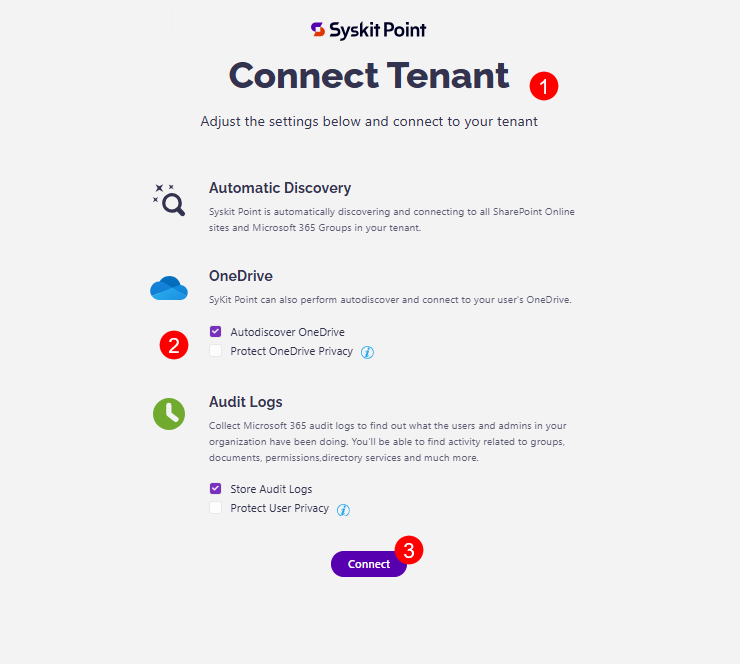
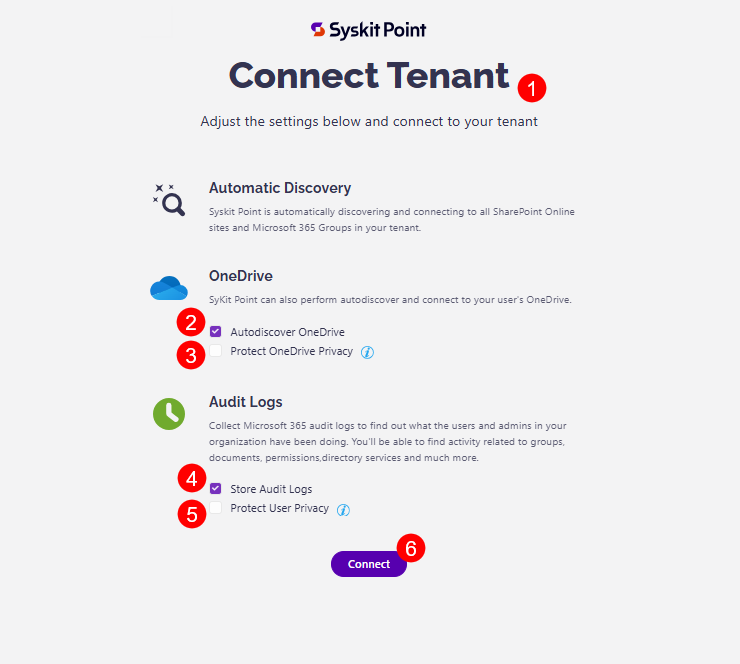
updated

diff --git a/configuration/manage-connection.md b/configuration/manage-connection.md
@@ -10,7 +10,7 @@ description: This article shows how to modify and manage your tenant connection 
 * Point Data Center customers who set up their tenant connection when deploying Syskit Point can manage or edit their connection by following the steps in this article. 
 {% endhint %}
 
-Once Syskit Point is set up, you can manage or modify your tenant connection anytime through your Syskit Point Settings. This allows you to adjust permissions as needed and ensure accurate data collection. 
+Once Syskit Point is set up, you can manage or modify your tenant connection anytime through your Syskit Point Settings. This allows you to adjust Autodiscover and Audit Data Storing options as needed and ensure accurate data collection. 
 
 
 ## Connect Tenant Settings
@@ -27,9 +27,15 @@ To modify your tenant connection, complete the following:
   * Connect Service Account section where you can disable the connection or remove the service account (7)
 
 To manage your connection, **click the Manage Connection button. (5)**
-  * You are then asked to reconsent to providing Syskit Point permission to your tenant by **clicking Accept**
-  * After consenting, **the Connect Tenant screen opens (1)** where you can make any of your preferred changes by **selecting or deselecting the checkboxes (2)**
-  * Once you are done, **click the Connect button (3)** to finalize
+  * You are asked to reconsent to providing Syskit Point permission to your tenant by **clicking Accept**
+  * After consenting, **the Connect Tenant screen opens (1)** where you can make any of your preferred changes by **selecting or deselecting the checkboxes**
+    * The options provided are as follows:
+      * **Automatic Discovery** – by default, Syskit Point continuously monitors your Microsoft 365 environment and shows you the latest data. You cannot modify this setting.
+      * **Autodiscover OneDrive (2)** – by default, Syskit Point collects information and report on the users' OneDrive activity, content, and sharing. To stop collecting OneDrive data, uncheck this option.
+      * **Protect OneDrive privacy (3)** – When enabled, Syskit Point only shows general information about the user's OneDrive, such as used storage. Syskit Point Admins won't be able to access any OneDrive content and personal data. By default, this option is disabled.
+      * **Store audit logs (4)** – Syskit Point also collects all audit logs to monitor internal and external user activities and changes and store them in an Azure Cosmos database. To stop storing audit logs, uncheck this option.
+      * **Protect user privacy (5)** - When enabled, user activity data will be hidden from Syskit Point and protected from Administrator supervision. By default, this option is disabled.      
+  * Once you are done, **click the Connect button (6)** to finalize
   * When Syskit Point is done updating your tenant, you are redirected back to the Syskit Point Dashboard
 
 
